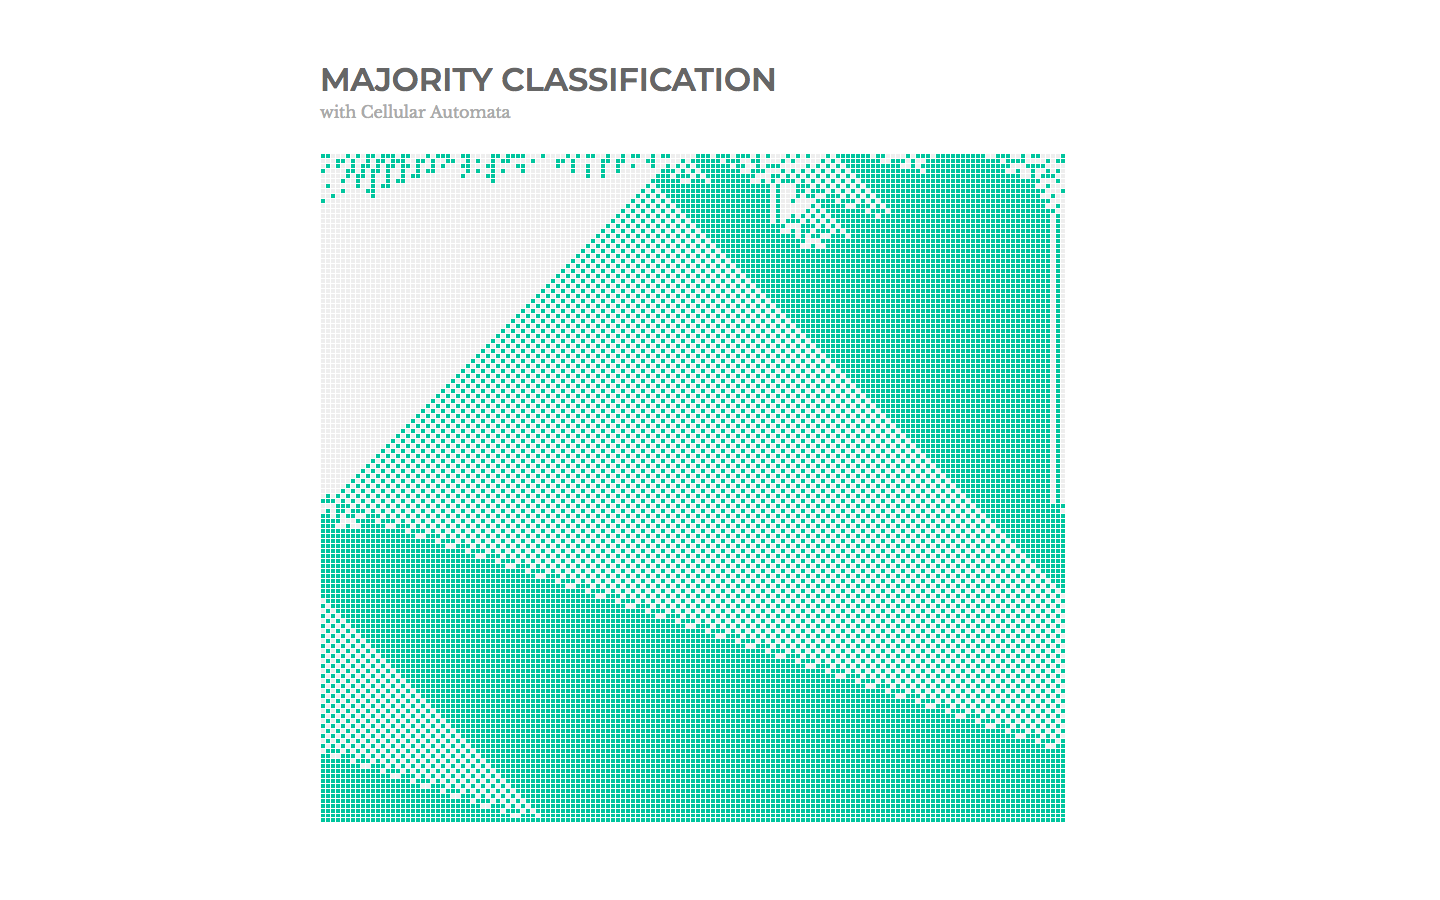
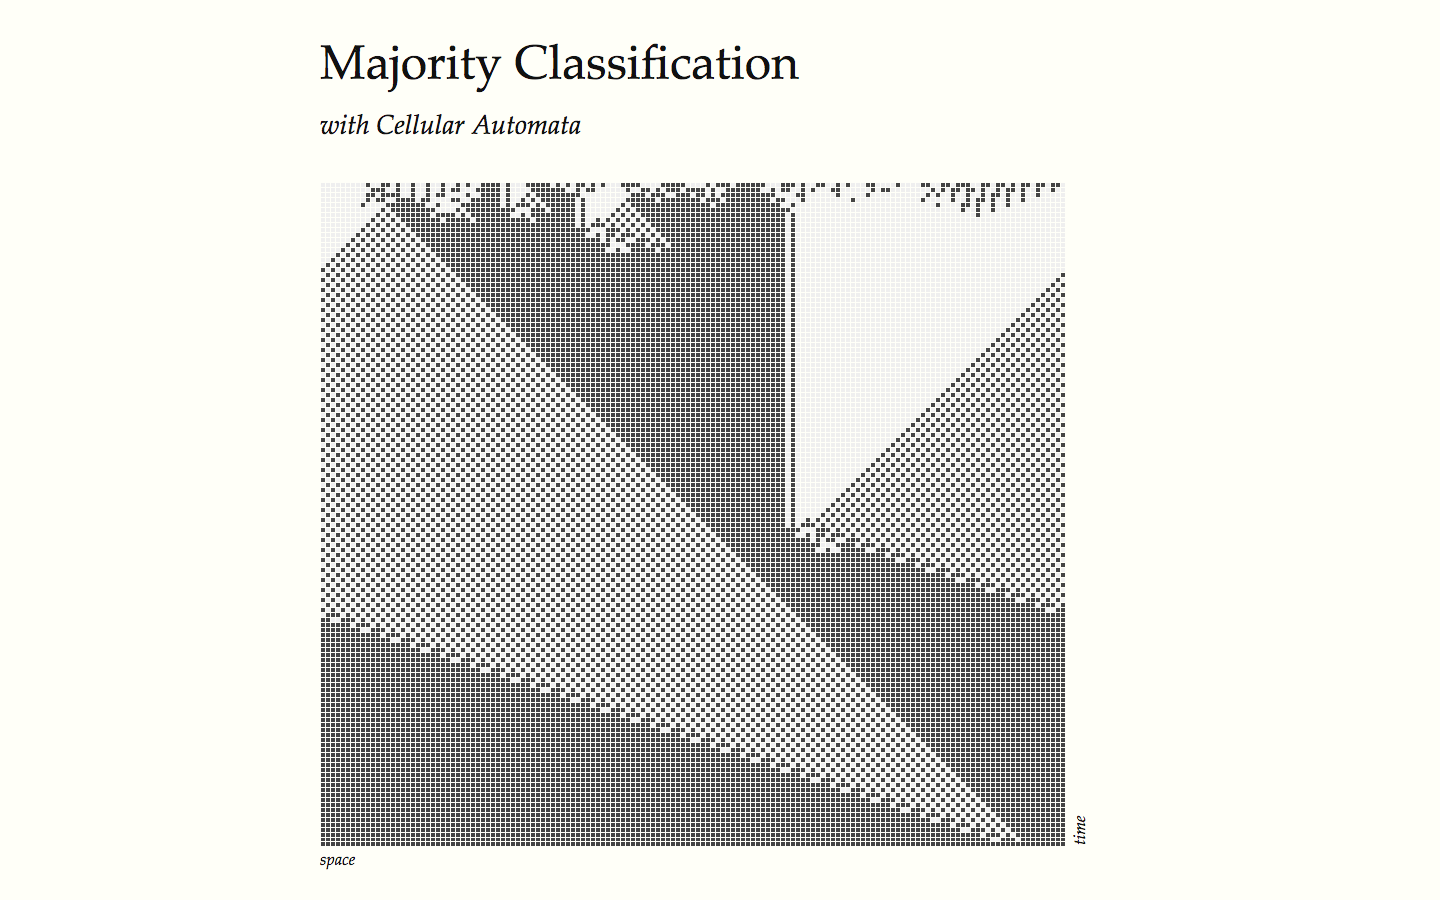
Condense js models/views

Changed region(s): [[0.2188, 0.0311, 0.75, 0.9644]]

diff --git a/index.html b/index.html
@@ -9,34 +9,44 @@
     <div class="container">
       <h1 class="title">Majority Classification</h1>
       <p class="subtitle">with Cellular Automata</p>
-      <p class="description">
-        Without random access memory or any central unit to perform counting, this cellular automaton needs to compute whether its initial configuration contains a majority of "on" or "off" states.  If "on" states are the majority, the cellular automaton should signal this fact by turning all the cells "on."  The majority classification task is like having to predict which of two candidates will win an election in your city when all you can see are the political signs on your neighbors' front lawns.
-      </p>
-      <figure>
-        <div class="world"></div>
-        <div class="x axis">space</div>
-        <div class="y axis">time</div>
-      </figure>
-      <p class="description">
-        One reasonable first guess for a rule might be: "Each cell should update to the state that is currently a majority in its local neighborhood."  However, this "local majority vote" cellular automaton doesn't work.
-      </p>
-      <p class="description">
-        The strategy depicted here was evolved by genetic algorithm and is quite clever.  Whenever a black region on the left meets a white region on the right, there is always a vertical boundary between them.  However, whenever a white region on the left meets a black region on the right, a checkerboard triangle forms, composed of alternative black and white cells.  The sides of the growing checkerboard region travel at the same velocity.  If one side collides with a vertical boundary before the other, that side had a shorter distance to travel.  That is, that region is smaller than the region bordered by the other side.  At the collision point, the side disappears, and the black region is allowed to grow.  When the final point disappears, the lattice displays the correct configuration.
-      </p>
-      <p class="description">
-        Jim Crutchfield, who had earlier invented a technique for detecting "information processing structures" in dynamical systems, suggested that boundaries between simple regions are carriers of information and information is processed when these boundaries collide.  Using space-time diagrams to trace the boundaries results in something akin to a trace of elementary particles in a bubble chamber.
-      </p>
-      <p class="citation">
-        Summarized from
-        <a href="#">
-          Complexity: A Guided Tour by Melanie Mitchell
-        </a>
-      </i>
-      </p>
+      <section>
+        <p class="description">
+          Without random access memory or any central unit to perform counting, cellular automata can compute whether an initial configuration contains a majority of "on" or "off" states.  If "on" states are the majority, the cellular automaton will signal this fact by turning all the cells "on."  The majority classification task is like having to predict which of two candidates will win an election in your city when all you can see are the political signs on your neighbors' front lawns.
+        </p>
+        <figure class="animation">
+          <p class="figure-title">Figure 1: Looped animation of an automaton performing majority classification</p>
+          <div class="world"></div>
+          <div class="x axis">space</div>
+        </figure>
+        <p class="description">
+          When designing a ruleset for such an automaton, one reasonable first guess for a rule might be: "Each cell should update to the state that is currently a majority in its local neighborhood."  However, this "local majority vote" approach doesn't work in practice.
+        </p>
+        <p class="description">
+          The strategy depicted in figures one and two was evolved by genetic algorithm and is quite clever.  Whenever a black region on the left meets a white region on the right,  a vertical boundary is created between them.  However, when a white region on the left meets a black region on the right, a checkerboard triangle forms, composed of alternating black and white cells.  The sides of the growing checkerboard region travel at the same velocity.  If one side collides with a vertical boundary before the other, that side had a shorter distance to travel.  That is, that region is smaller than the region bordered by the other side.  At the collision point, the side disappears, and the black region is allowed to grow.  When the final point disappears, the lattice will display only the color of the initial majority.
+        </p>
+        <figure class="spacetime-diagram">
+          <p class="figure-title">Figure 2: Space-time diagram of a cellular automaton performing majority classification</p>
+          <div class="world"></div>
+          <div class="x axis">space</div>
+          <div class="y axis">time</div>
+        </figure>
+        <p class="description">
+          Jim Crutchfield, who had earlier invented a technique for detecting "information processing structures" in dynamical systems, suggested that boundaries between simple regions are carriers of information and information is processed when these boundaries collide.  Using space-time diagrams to trace the boundaries results in something akin to a trace of elementary particles in a bubble chamber.
+        </p>
+        <p class="citation">
+          Summarized from
+          <a href="https://smile.amazon.com/Complexity-Guided-Tour-Melanie-Mitchell/dp/0199798109">
+            Complexity: A Guided Tour
+          </a>
+          by
+          <a href="http://web.cecs.pdx.edu/~mm/">Melanie Mitchell</a>
+        </i>
+        </p>
+      </section>
     </div>
   </body>
   <script type="text/javascript" src="/public/javascripts/namespace.js"></script>
   <script type="text/javascript" src="/public/javascripts/models/cellular_automata.js"></script>
-  <script type="text/javascript" src="/public/javascripts/views/world.js"></script>
+  <script type="text/javascript" src="/public/javascripts/views/lattice.js"></script>
   <script type="text/javascript" src="/public/javascripts/app.js"></script>
 </html>

diff --git a/public/javascripts/app.js b/public/javascripts/app.js
@@ -2,15 +2,29 @@
   const WORLD_LENGTH = 149
   const genome = '00000101000001100001010110000111000001110000010000010101010101110110010001110111000001010000000101111101111111111011011101111111'
   const world = new Array(WORLD_LENGTH).fill(0).map(() => Math.round(Math.random()))
-  const el = document.querySelector('.world')
-
   const model = new App.Models.CellularAutomata({ genome, world })
-  const view = new App.Views.World({ el, model })
+  let firstLoop = true
 
-  view.render();
+  const animation = new App.Views.Lattice({
+    el: document.querySelector('.animation .world'),
+    model
+  })
+  const spacetime = new App.Views.Lattice({
+    el: document.querySelector('.spacetime-diagram .world'),
+    model
+  })
+  animation.render()
+  spacetime.render()
 
-  while (model.isUnresolved()) {
-    model.step();
-    view.render();
-  }
+  setInterval(function () {
+    if (model.isUnresolved()) {
+      model.step()
+    } else {
+      model.world = world
+      firstLoop = false
+    }
+
+    firstLoop && spacetime.append()
+    animation.render()
+  }, 80)
 }()

diff --git a/public/stylesheets/styles.css b/public/stylesheets/styles.css
@@ -59,7 +59,12 @@ html, body {
 .container {
   width: 800px;
   margin: 0 auto;
-  padding: 20px 10px 70px;
+  padding: 5rem 1rem;
+}
+
+section {
+  padding-top: 1rem;
+  padding-bottom: 1rem;
 }
 
 .title {
@@ -84,11 +89,9 @@ figure {
   position: relative;
   margin: 0;
   padding: 0;
-  padding-bottom: 20px;
 }
 
 .world {
-  padding-top: 20px;
   padding-bottom: 20px;
 }
 
@@ -123,6 +126,14 @@ figure {
 
 .cell.empty {
   background-color: #efefef;
+}
+
+.animation {
+  min-height: 90px;
+}
+
+.spacetime-diagram {
+  padding-bottom: 20px;
 }
 
 .description {
@@ -164,6 +175,12 @@ figure {
 }
 
 a:link, a:visited { color: inherit; }
-a:link {
-  text-decoration: none;
+
+.figure-title {
+  font-style: italic;
+  margin-top: 1.4rem;
+  margin-bottom: 0.5rem;
+  vertical-align: baseline;
+  font-size: 1.4rem;
+  line-height: 2rem;
 }

diff --git a/public/javascripts/views/lattice.js b/public/javascripts/views/lattice.js
@@ -1,0 +1,24 @@
+namespace('App.Views');
+
+class Lattice {
+  constructor ({ el, model }) {
+    this.el = el
+    this.model = model
+  }
+
+  template ({ world }) {
+    return world.reduce((html, value) => (
+      html += `<div class="cell ${value ? 'present' : 'empty'}"></div>`
+    ), '<div class="row">') + '</div>'
+  }
+
+  append () {
+    this.el.innerHTML += this.template(this.model.toJSON())
+  }
+
+  render () {
+    this.el.innerHTML = this.template(this.model.toJSON())
+  }
+}
+
+App.Views.Lattice = Lattice;
